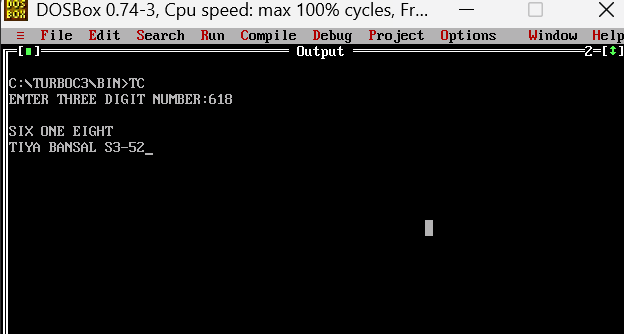
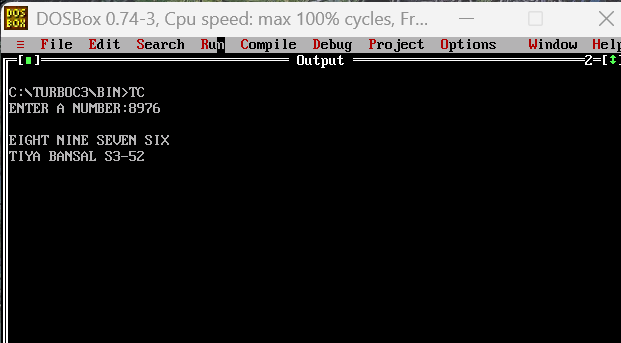
adding new files

diff --git a/SALARY.C b/SALARY.C
@@ -1,0 +1,43 @@
+#include <stdio.h>
+int main(){
+	float sal,hra,da,gross;
+	int category;
+	printf("ENTER THE BASIC SALARY:");
+	scanf("%f",&sal);
+	if (sal<0)
+	printf("\nINVALID SALARY");
+	if (sal<=10000)
+	category = 1;
+	else if(sal<=20000)
+	category = 2;
+	else
+	category = 3;
+
+	switch(category){
+		case 1:
+		hra = sal*0.20;
+		da = sal*0.80;
+		break;
+
+		case 2:
+		hra = sal*0.25;
+		da = sal*0.90;
+		break;
+
+		case 3:
+		hra = sal*0.30;
+		da = sal*0.95;
+		break;
+
+		default:
+		printf("\nERROR IN CALCULATION");
+	}
+	gross = sal+hra+da;
+	printf("\n---SALARY BREAKDOWN---");
+	printf("\nBASIC SALARY :%.2f",sal);
+	printf("\nHRA          :%.2f",hra);
+	printf("\nDA           :%.2f",da);
+	printf("\nGROSS SALARY :%.2f",gross);
+	printf("\n\nTIYA BANSAL S3-52");
+	return 0;
+}

diff --git a/PATTERN.C b/PATTERN.C
@@ -1,0 +1,41 @@
+
+#include <stdio.h>
+int main()
+{
+	int i,j;
+	int choice;
+	printf("Select pattern to display:");
+	printf("\nEnter 1 for STAR PATTERN");
+	printf("\nEnter 2 for NUMBER PATTERN\n");
+	scanf("%d",&choice);
+	switch (choice){
+		case 1:
+
+			for(i=0;i<5;i++){
+				for(j=0;j<=i;j++){
+					printf("* ");
+
+
+				}
+				printf("\n");
+			}
+			break;
+		case 2:
+		for (i=1;i<=4;i++){
+			for (j=1;j<=i;j++){
+				printf("%d",j);
+			}
+			for (j=i-1;j>=1;j--){
+				printf("%d",j);
+			}
+			printf("\n");
+		}
+		break;
+
+		default:
+		printf("\nInvalid choice");
+		break;
+	}
+	printf("\nTIYA BANSAL S3-52");
+	return 0;
+}

diff --git a/COORDINA.C b/COORDINA.C
@@ -1,0 +1,22 @@
+#include <stdio.h>
+int main()
+{
+	int x;
+	int y;
+	printf("ENTER X COORDINATE:");
+	scanf("%d",&x);
+	printf("\nENTER Y COORDINATE:");
+	scanf("%d",&y);
+	if(x>0 && y>0)
+	printf("\n1ST QUADRANT");
+	else if(x>0 && y<0)
+	printf("\n4RTH QUADRANT");
+	else if(x<0 && y>0)
+	printf("\n2ND QUADRANT");
+	else
+	printf("\n3RD QUADRANT");
+
+	printf("\nTIYA BANSAL S3-52");
+	return 0;
+
+}

diff --git a/NUMBERS.C b/NUMBERS.C
@@ -1,13 +1,15 @@
 #include <stdio.h>
+#include <string.h>
 
 int main()
 {
-	char num[3];
-	int i=0;
-	printf("ENTER THREE DIGIT NUMBER:");
+	char num[10];
+	int i=0,len;
+	printf("ENTER A NUMBER:");
 	scanf("%s",&num);
 	printf("\n");
-	for (i=0;i<3;i++){
+	len=strlen(num);
+	for (i=0;i<len;i++){
 		switch (num[i]){
 			case '0':
 			printf("ZERO ");

diff --git a/BYTES.C b/BYTES.C
@@ -1,0 +1,13 @@
+#include <stdio.h>
+int main()
+{
+	int b;
+	float kb=0;
+	printf("ENTER NO. OF BYTES:");
+	scanf("%d",&b);
+	kb = b/1024.0;
+	printf("\nANSWER IN KILOBYTES IS %f",kb);
+	printf("\nTIYA BANSAL S3-52");
+	return 0;
+
+}

diff --git a/PATTERN3.C b/PATTERN3.C
@@ -1,0 +1,18 @@
+#include <stdio.h>
+int main(){
+
+	int i,j;
+
+       for(i=5;i>=1;i--){
+
+	 for(j=1;j<=i;j++){
+		printf("* ");
+	 }
+	 printf("\n");
+
+       }
+       printf("\nTIYA BANSAL S3-52");
+       return 0;
+
+
+}

diff --git a/PATTERN2.C b/PATTERN2.C
@@ -1,0 +1,13 @@
+#include <stdio.h>
+int main(){
+	int i,j;
+	for(i=1;i<=5;i++){
+		for (j=1;j<=2*i;j++){
+			printf("* ");
+		}
+
+		printf("\n");
+	}
+	printf("\nTIYA BANSAL S3-52");
+	return 0;
+}
